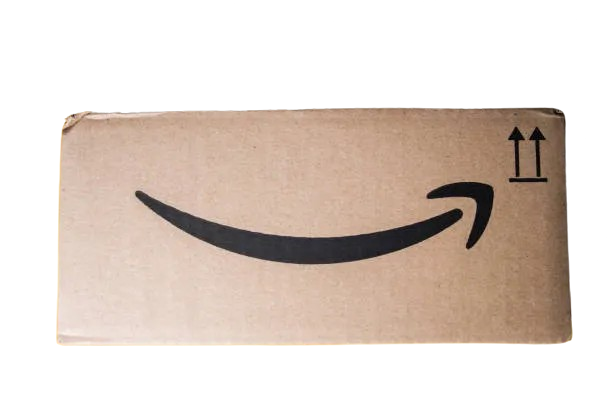
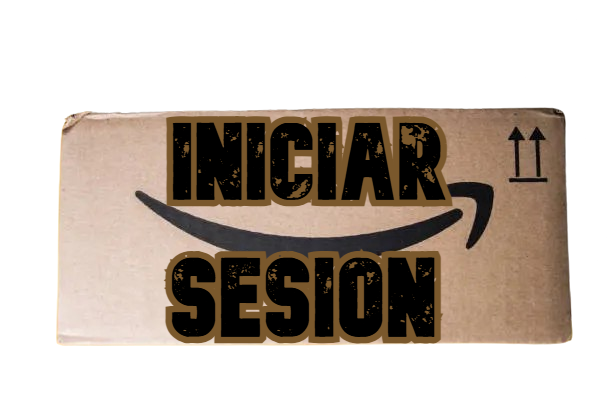
Intento de fondo

Changed region(s): [[0.2484, 0.2647, 0.7451, 0.5294], [0.2484, 0.6176, 0.7451, 0.8529]]

diff --git a/src/views/LoginView.java b/src/views/LoginView.java
@@ -2,6 +2,8 @@ package views;
 
 import java.awt.Color;
 import java.awt.Font;
+import java.awt.Graphics;
+import java.awt.Graphics2D;
 import java.awt.Image;
 
 import javax.imageio.ImageIO;
@@ -22,6 +24,7 @@ import java.io.*;
 public class LoginView extends JPanel{
 	
 Font fuente;
+
 	
 
 	public LoginView() {
@@ -47,25 +50,27 @@ Font fuente;
 		boton1.setBounds(250,320,160,60);
 		boton1.setToolTipText("Haz click aquí");
 		boton1.setFont(fuente);
-		
-		
-		
-		/*try {
-			Image caja = ImageIO.read(getClass().getResource("/img/caja.png"));
-			
-			caja = caja.getScaledInstance(30, 20, java.awt.Image.SCALE_SMOOTH);
-			boton1.setIcon(new ImageIcon(caja));
-			
-		}catch(Exception ex) {
-			System.out.println("No hay imagen");
-		}*/
 
 		add(boton1);
-		
-
 	}
 	
 	
+	
+	public void cargarFondo(Graphics g) {
+		
+		super.paintComponent(g);
+		Graphics2D g2 = (Graphics2D) g;
+		
+		Image fondo = null;
+		
+		try {
+			fondo = ImageIO.read(new File("src/img/fondo.jpg"));
+			g2.drawImage(fondo, 0, 0, getWidth(), getHeight(), null);
+		} catch (IOException ex) {
+			System.out.println("La imagen no existe");
+		}
+		
+	}
 
 	private void crearFormulario() {
 		

diff --git a/src/components/LoginButton.java b/src/components/LoginButton.java
@@ -3,6 +3,8 @@ package components;
 import java.awt.Graphics;
 import java.awt.Graphics2D;
 import java.awt.Image;
+import java.io.File;
+import java.io.IOException;
 
 import javax.imageio.ImageIO;
 import javax.swing.ImageIcon;
@@ -11,10 +13,12 @@ import javax.swing.JButton;
 public class LoginButton extends JButton{
 	
 	Image caja;
+	Image fondo;
 	
 	public LoginButton(String text) {
 		super(text);
 		cargarImagen();
+		
 	}
 	
 	protected void paintComponent(Graphics g) {
@@ -34,5 +38,6 @@ public class LoginButton extends JButton{
 			System.out.println("No hay imagen");
 		}
 	}
+	
 	
 }
